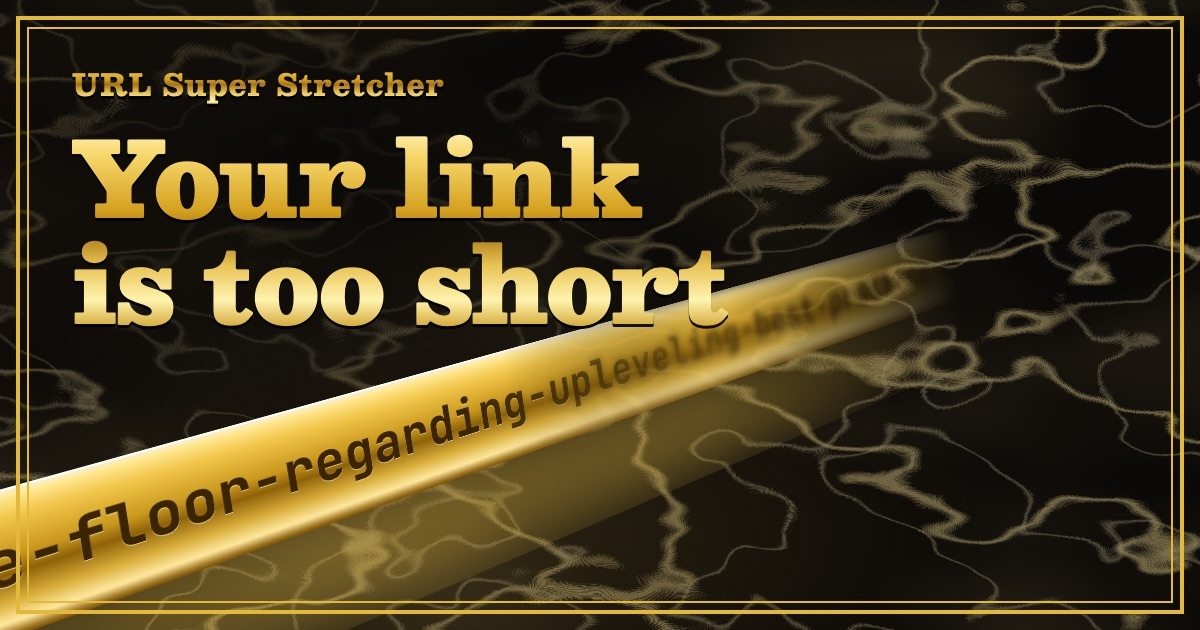
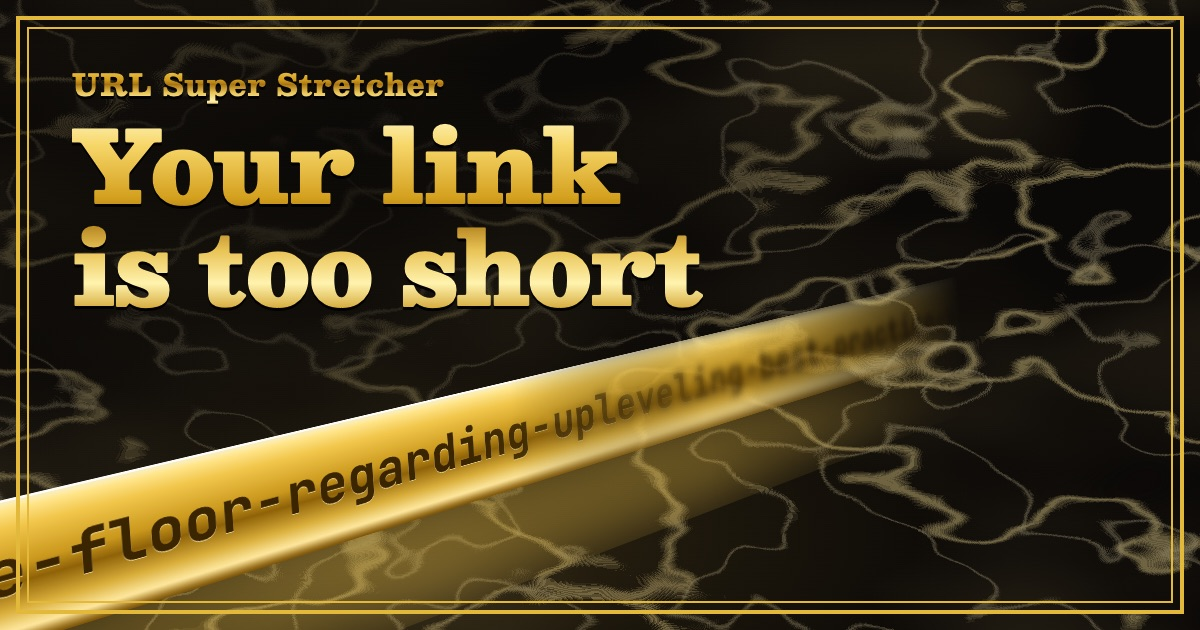
Keep the heading off the gold bar in the home share image

Changed region(s): [[0.0, 0.181, 0.7708, 1.0]]

diff --git a/design/share/share.css b/design/share/share.css
@@ -162,11 +162,17 @@ h1 {
 }
 
 h1 {
-  top: 122px;
-  font-size: 104px;
+  top: 112px;
+  font-size: 100px;
   font-weight: 900;
   line-height: 1.02;
   letter-spacing: -0.015em;
+}
+
+/* The home image keeps the bar flat and low, so the heading never sits on gold. */
+.home .rig {
+  bottom: -262px;
+  transform: rotateZ(-4deg) rotateY(52deg);
 }
 
 /* The image for a stretched link has no heading, so the name is the heading and the bar sits

diff --git a/design/share/home.html b/design/share/home.html
@@ -5,7 +5,7 @@
     <title>Share image for the home page</title>
     <link rel="stylesheet" href="share.css" />
   </head>
-  <body>
+  <body class="home">
     <div class="stage">
       <div class="rig">
         <div class="bar-shadow"></div>
